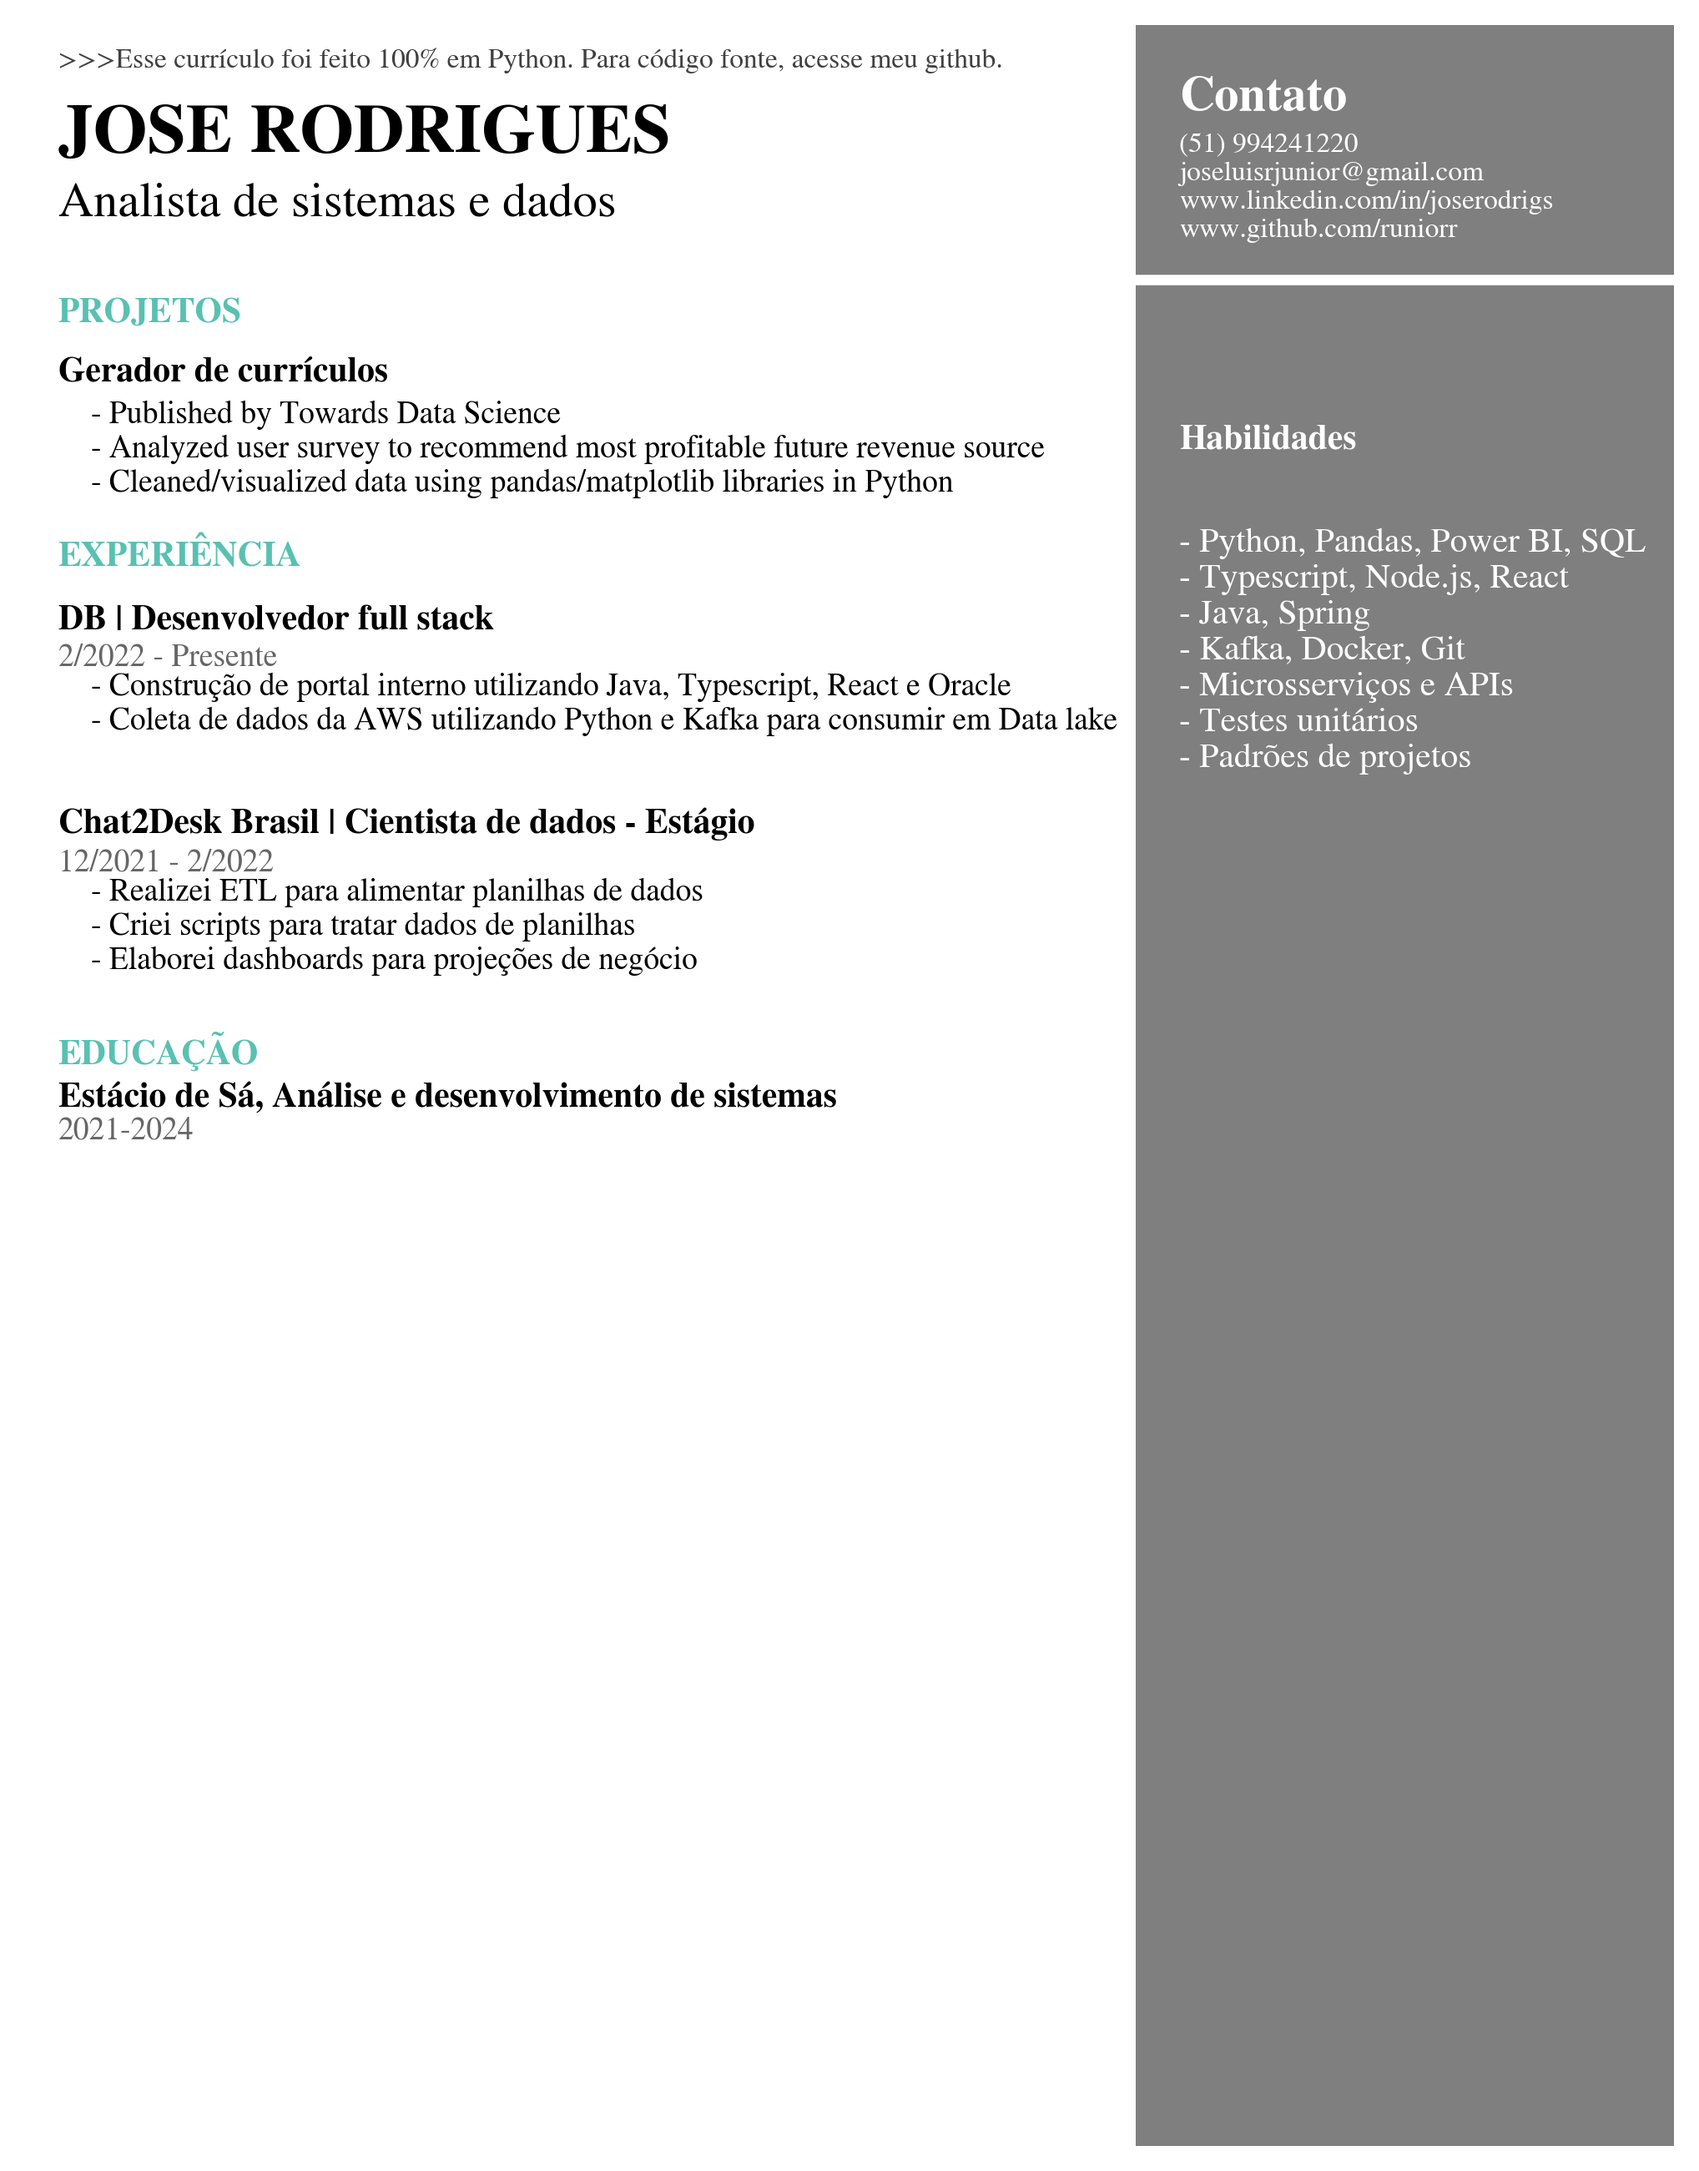
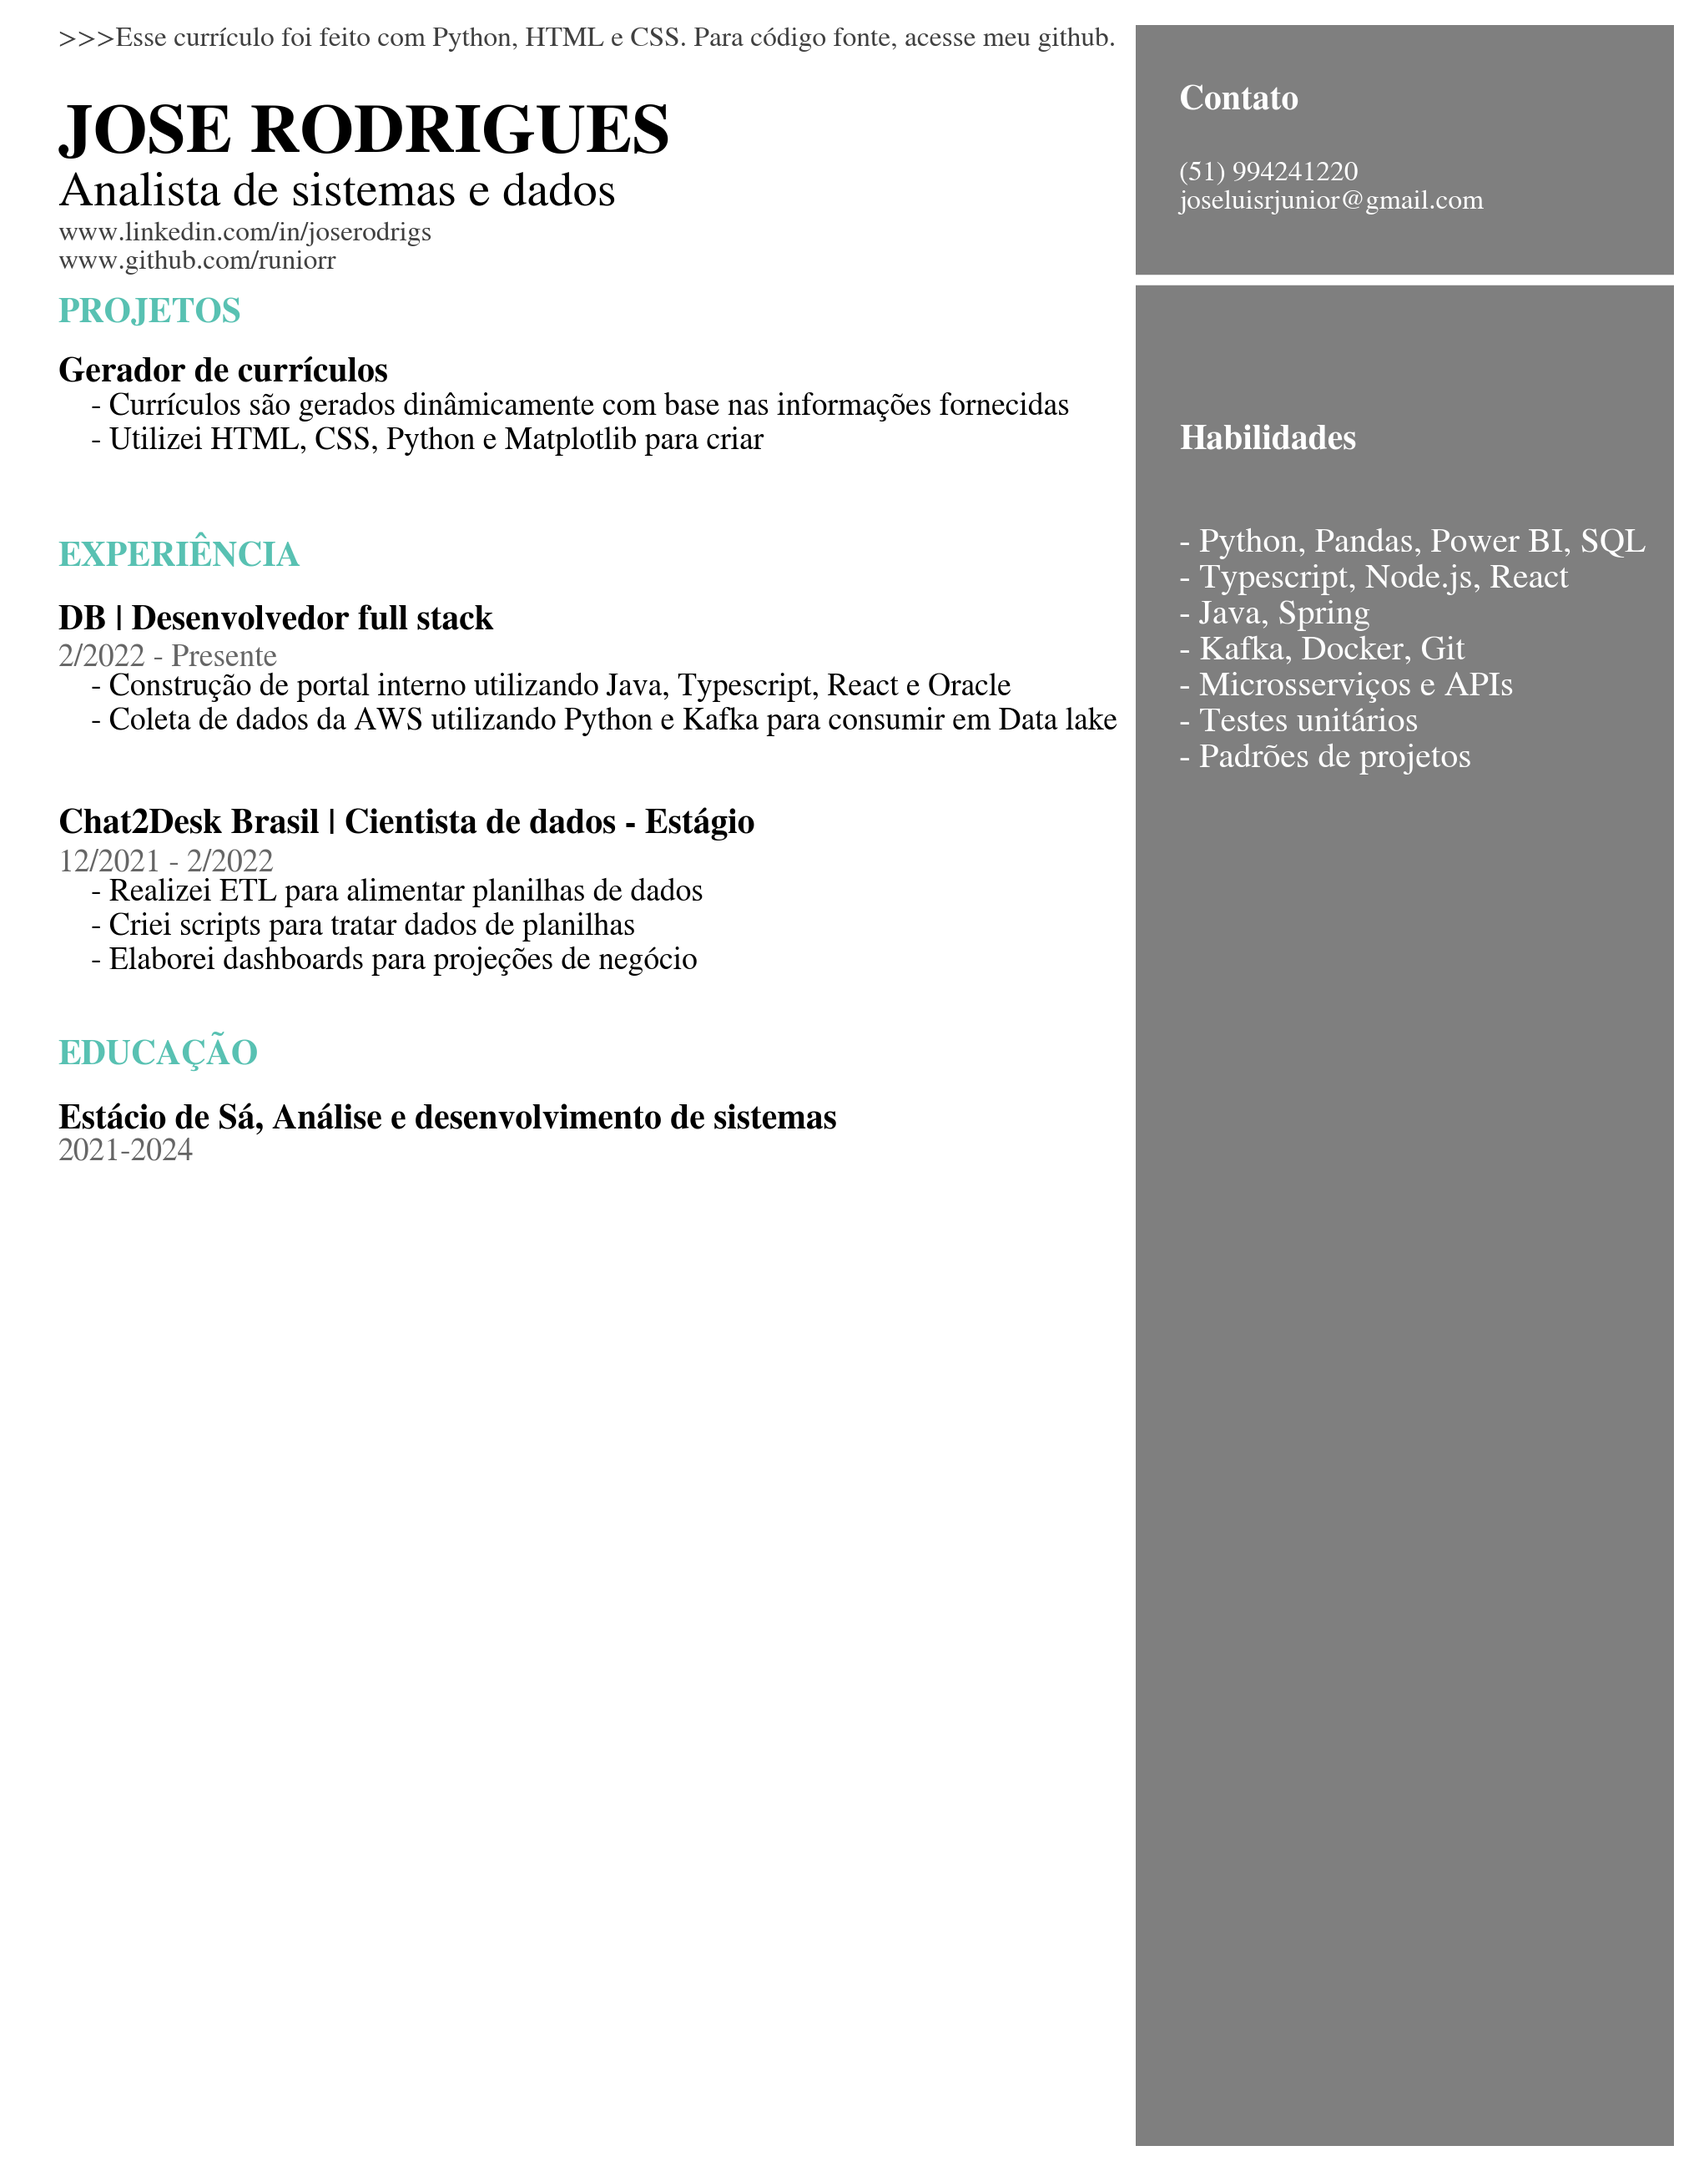
html and css

diff --git a/index.html b/index.html
@@ -1,0 +1,55 @@
+<!DOCTYPE html>
+<html>
+
+<head>
+    <title>Curriculo</title>
+    <link rel="stylesheet" href="index.css">
+</head>
+
+    <body>
+        <!-- <div id="header"></div> -->
+        <div class="left"></div>
+        <div class="stuff">
+          <br><br>
+          <h1>José Rodrigues</h1>
+          <h2>Analista de sistemas</h2>
+          <hr />
+          <br>
+          <p class="head">Experiência</p>
+          <ul>
+            <li>Student Technology Intern for Wilton School District</li>
+            <li>Babysitter</li>
+          </ul>
+          <p class="head">Educação</p>
+          <ul>
+            <a href="http://www.wiltonhighschool.org/pages/Wilton_High_School">
+              <li>Wilton High School</li>
+            </a>
+            <!--Link-->
+            <a href="https://www.silvermineart.org/">
+              <li>Silvermine School of Arts</li>
+            </a>
+            <li>Codeaacademy</li>
+          </ul>
+          <p class="head">Habilidades</p>
+          <ul>
+            <li>Web Design with HTML & CSS</li>
+            <li>Web Design with HTML & CSS</li>
+            <li>Web Design with HTML & CSS</li>
+            <li>Web Design with HTML & CSS</li>
+          </ul>
+          <p class="head">Interesses</p>
+          <ul>
+            <li>Desenho</li>
+            <li>Fotografia</li>
+            <li>Programação</li>
+            <li>Ciência da computação</li>
+          </ul>
+        </div>
+        <div class="right"></div>
+        <div id="footer">
+          <h2 id="name">José Rodrigues</h2>
+        </div>
+    </body>
+
+</html>

diff --git a/index.css b/index.css
@@ -1,0 +1,92 @@
+* {
+    max-width: 700px;
+    margin: auto;
+  }
+  
+  
+  /*body {
+      min-width: 500px;
+  }*/
+  
+  div {
+    border-radius: 5px;
+  }
+  
+  #header {
+    height: 40px;
+    width: 100%;
+    background-color: #ccfffc;
+    position: fixed;
+    z-index: 1;
+  }
+  
+  #title {
+    margin-left: 3%;
+  }
+  
+  #footer {
+    height: 50px;
+    width: 100%;
+    background-color: #ffcccc;
+    clear: both;
+    position: relative;
+  }
+  
+  .left {
+    height: 1000px;
+    width: 45px;
+    background-color: #e0eeee;
+    float: left;
+    position: fixed;
+  }
+  
+  .right {
+    height: 1000px;
+    width: 45px;
+    background-color: #e0eeee;
+    float: right;
+    position: inherit;
+  }
+  
+  /* plt.rcParams['font.family'] = 'sans-serif'
+  plt.rcParams['font.sans-serif'] = 'STIXGeneral' */
+  .stuff {
+    font-family: sans-serif;
+    display: inline-block;
+    margin-top: 6px;
+    margin-left: 55px;
+    width: 75%;
+    height: 1000px;
+  }
+  
+  p,
+  li {
+    font-family: 'Cormorant Garamond';
+  }
+  
+  .head {
+    font-size: 20px;
+  }
+  
+  #name {
+    font-family: Sacramento;
+    float: right;
+    margin-top: 10px;
+    margin-right: 4%;
+  }
+  
+  a {
+    color: black;
+    text-decoration: none;
+  }
+  
+  @media only screen and (max-width: 430px) {
+    .left,
+    .right {
+      display: none;
+    }
+    .stuff {
+      width: 100%;
+      margin-left: 10px;
+    }
+  }

diff --git a/resume/resume_gen.py b/resume/resume_gen.py
@@ -1,12 +1,13 @@
 # Text Variables
-Header = '>>>Esse currículo foi feito 100% em Python. Para código fonte, acesse meu github.'
+Header = '>>>Esse currículo foi feito com Python, HTML e CSS. Para código fonte, acesse meu github.'
 Name = 'JOSE RODRIGUES'
 Title = 'Analista de sistemas e dados'
-Contact = '(51) 994241220\njoseluisrjunior@gmail.com\nwww.linkedin.com/in/joserodrigs\nwww.github.com/runiorr'
+Contact = '(51) 994241220\njoseluisrjunior@gmail.com\n'
+sites = 'www.linkedin.com/in/joserodrigs\nwww.github.com/runiorr'
 
 ProjectsHeader = 'PROJETOS'
 ProjectOneTitle = 'Gerador de currículos'
-ProjectOneDesc = '- Published by Towards Data Science\n- Analyzed user survey to recommend most profitable future revenue source\n- Cleaned/visualized data using pandas/matplotlib libraries in Python'
+ProjectOneDesc = '- Currículos são gerados dinâmicamente com base nas informações fornecidas\n- Utilizei HTML, CSS, Python e Matplotlib para criar'
 
 WorkHeader = 'EXPERIÊNCIA'
 WorkOneTitle = 'DB | Desenvolvedor full stack'
@@ -52,15 +53,16 @@ plt.axis('off')
 # Figure(850x1100)
 
 # add text
-plt.annotate(Header, (.02,0.98), weight='regular', fontsize=8, alpha=.75)
+plt.annotate(Header, (.02,.99), weight='regular', fontsize=8, alpha=.75)
 plt.annotate(Name, (.02,.94), weight='bold', fontsize=20)
-plt.annotate(Title, (.02,.91), weight='regular', fontsize=14)
-plt.annotate("Contato", (.7,.96), weight='bold', fontsize=14, color='#ffffff')
+plt.annotate(Title, (.02,.915), weight='regular', fontsize=14)
+plt.annotate(sites, (.02,.885), weight='regular', fontsize=8, alpha=.75)
+plt.annotate("Contato", (.7,.96), weight='bold', fontsize=10, color='#ffffff')
 plt.annotate(Contact, (.7,.9), weight='regular', fontsize=8, color='#ffffff')
 
 plt.annotate(ProjectsHeader, (.02,.86), weight='bold', fontsize=10, color='#58C1B2')
 plt.annotate(ProjectOneTitle, (.02,.832), weight='bold', fontsize=10)
-plt.annotate(ProjectOneDesc, (.04,.78), weight='regular', fontsize=9)
+plt.annotate(ProjectOneDesc, (.04,.8), weight='regular', fontsize=9)
 
 plt.annotate(WorkHeader, (.02,.745), weight='bold', fontsize=10, color='#58C1B2')
 
@@ -73,8 +75,9 @@ plt.annotate(WorkTwoTime, (.02,.601), weight='regular', fontsize=9, alpha=.6)
 plt.annotate(WorkTwoDesc, (.04,.555), weight='regular', fontsize=9)
 
 plt.annotate(EduHeader, (.02,.510), weight='bold', fontsize=10, color='#58C1B2')
-plt.annotate(EduOneTitle, (.02,.490), weight='bold', fontsize=10)
-plt.annotate(EduOneTime, (.02,.475), weight='regular', fontsize=9, alpha=.6)
+
+plt.annotate(EduOneTitle, (.02,.480), weight='bold', fontsize=10)
+plt.annotate(EduOneTime, (.02,.465), weight='regular', fontsize=9, alpha=.6)
 
 plt.annotate(SkillsHeader, (.7,.8), weight='bold', fontsize=10, color='#ffffff')
 plt.annotate(SkillsDesc, (.7,.65), weight='regular', fontsize=10, color='#ffffff')
